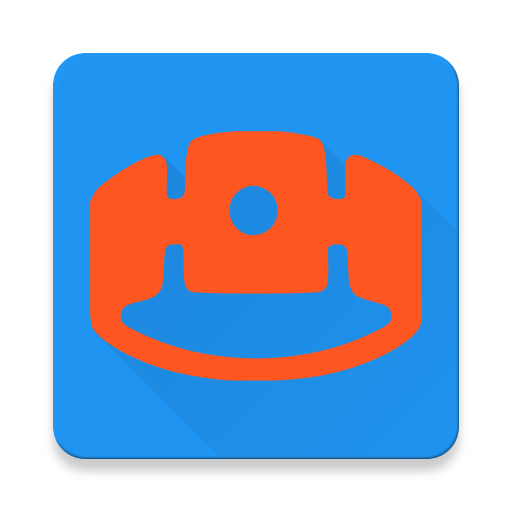
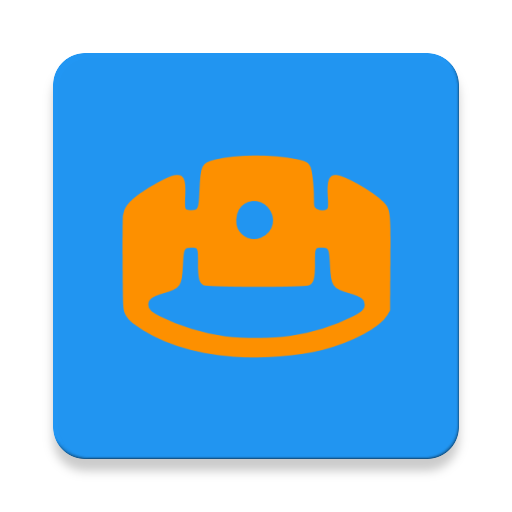
Added README

Changed region(s): [[0.1562, 0.25, 0.8438, 0.75]]

diff --git a/README.md b/README.md
@@ -1,2 +1,275 @@
-# myo-emg-visualizer
-A simple Android app to display emg raw data from Myo device
+# Myonnaise 🍯
+[![CircleCI](https://circleci.com/gh/cortinico/myonnaise.svg?style=svg)](https://circleci.com/gh/cortinico/myonnaise) [![codecov](https://codecov.io/gh/cortinico/myonnaise/branch/master/graph/badge.svg)](https://codecov.io/gh/cortinico/myonnaise) [ ![Download](https://api.bintray.com/packages/cortinico/maven/myonnaise/images/download.svg) ](https://bintray.com/cortinico/maven/myonnaise/_latestVersion) ![License](https://img.shields.io/badge/license-MIT%20License-brightgreen.svg) [![Twitter](https://img.shields.io/badge/Twitter-@cortinico-blue.svg?style=flat)](http://twitter.com/cortinico)
+
+<p align="center">
+    <img width="30%" src="https://raw.githubusercontent.com/cortinico/myonnaise/master/icon_hires.png" alt="projectlogo">
+</p>
+
+An Android library to interact with your Thalmic **Myo**, written in [**Kotlin**](https://github.com/JetBrains/kotlin) and using [**RxJava2**](https://github.com/ReactiveX/RxJava). 
+
+This repo contains also a **sample app** that showcases the usage of the library: Myo EMG Visualizer. With this app you can stream EMG Raw data from your device and **save it as a CSV**. The app is also available on the play store:
+
+<a href='https://play.google.com/store/apps/details?id=it.ncorti.emgvisualizer&pcampaignid=MKT-Other-global-all-co-prtnr-py-PartBadge-Mar2515-1'><img alt='Get it on Google Play' width="20%" src='https://play.google.com/intl/en_gb/badges/images/generic/en_badge_web_generic.png'/></a>
+
+**DISCLAIMER: If you don't know what a Myo is, please go here: [www.myo.com](https://www.myo.com/). Please note that you need a Myo in order to use this library/app.**
+
+* [Getting Started](#getting-started)
+* [Example](#example)
+    * [Searching for a Myo](#searching-for-a-myo)
+    * [Connecting to a Myo](#connecting-to-a-myo)
+    * [Sending a Command](#sending-a-command)
+    * [Starting the Streaming](#starting-the-streaming)
+    * [Streaming Frequency](#streaming-frequency)
+    * [Keep Alive](#keep-alive)
+* [Features](#features)
+* [Test App](#test-app)
+    * [Videos](#videos) 
+* [Building/Testing](#buildingtesting)
+    * [CircleCI](#circleci)
+    * [Codecov](#codecov)
+    * [Building locally](#building-locally)
+    * [Testing](#testing)
+* [Contributing](#contributing)
+* [License](#license)
+
+## Getting Started 👣
+
+**Myonnaise** is distributed through [JCenter](https://bintray.com/bintray/jcenter?filterByPkgName=myonnaise). To use it you need to add the following **Gradle dependency** to your **android app gradle file** (NOT the root file).
+
+```groovy
+dependencies {
+   implementation 'com.ncorti:myonnaise:1.0.0'
+}
+```
+
+## Example 🚸
+
+After setting up the Gradle dependency, you will be able to access two main classes: `Myonnaise` and `Myo`. 
+
+* [`Myonnaise`](https://github.com/cortinico/myonnaise/blob/master/myonnaise/src/main/java/com/ncorti/myonnaise/Myonnaise.kt) is the entry point where you can **trigger a bluetooth scan** to search for nearby devices. A scan will return you one or mode `BluetoothDevice` (from the [android framework](https://developer.android.com/reference/android/bluetooth/BluetoothDevice)). If you don't know your Myo's address a priori, you need to show those devices to the user and allow him to pick one.
+
+* [`Myo`](https://github.com/cortinico/myonnaise/blob/master/myonnaise/src/main/java/com/ncorti/myonnaise/Myo.kt) is the class that will allow you to connect to your device, send commands and start the streaming. You need a `BluetoothDevice` in order to create a `Myo`.
+
+### Searching for a Myo
+
+First, you need to **find a Myo** with a bluetooth scan.
+
+** ⚠ Please note that you need to request the user the ACCESS_COARSE_LOCATION permission. If not, the scan will be empty ⚠ **
+
+To start a bluetooth scan, you can use the `startScan()` method:
+
+```kotlin
+Myonnaise(context).startScan()
+            .subscribeOn(Schedulers.io())
+            .observeOn(AndroidSchedulers.mainThread())
+            .subscribe({
+                // Do something with the found device
+                println(it.address)
+            })
+```
+
+This method will return a `Flowable` that will publish all the `BluetoothDevice` that are discovered nearby. Please note that the scan will stop only when you **cancel** the Flowable.
+
+Alternatively, you can also provide a **timeout** and the scan will stop after the timeout:
+
+```kotlin
+Myonnaise(context).startScan(5, TimeUnit.MINUTES)
+            .subscribeOn(Schedulers.io())
+            .observeOn(AndroidSchedulers.mainThread())
+            .subscribe({
+                // Do something with the found device
+                println(it.address)
+            })
+```
+
+Once you found a `BluetoothDevice` that is a Myo, you can get a `Myo` instance from it.
+
+```kotlin
+val myMyo = Myonnaise.getMyo(foundDevice)
+```
+
+### Connecting to a Myo
+
+Connecting or disconnecting to a Myo is really easy:
+
+```kotlin
+// To Connect
+myMyo.connect(getContext())
+
+// To Disconnect
+myMyo.disconnect()
+```
+Connecting and disconnecting are **not syncronous** operations. You have to wait that the device is successfully connected before start sending commands.
+You can **get notified** of status updates using the RxJava `statusObservable`.
+
+```kotlin
+myMyo.statusObservable()
+        .subscribeOn(Schedulers.io())
+        .observeOn(AndroidSchedulers.mainThread())
+        .subscribe {
+            when (it) {
+                MyoStatus.CONNECTED -> { ... }
+                MyoStatus.CONNECTING -> { ... }
+                MyoStatus.READY -> { ... }
+                else -> { ... } // DISCONNECTED
+            }
+        }
+```
+
+In order to send command to your `Myo`, your `Myo` should be in the **READY** state. If the `Myo` is not ready, commands will be ignored.
+
+### Sending a Command
+
+To send a command you can use the `sendCommand()` method. For example, you can let your device vibrate with:
+
+```kotlin
+myMyo.sendCommand(CommandList.vibration1())
+```
+
+Commands will be processed by the library and sent to the device (the library has a queue to process all the commands).
+
+List of all available commands is in the [`CommandList.kt`](https://github.com/cortinico/myonnaise/blob/master/myonnaise/src/main/java/com/ncorti/myonnaise/Myo.kt) file.
+
+### Starting the Streaming
+
+You can start/stop the streaming using again the `sendCommand` method:
+
+```kotlin
+// Start Streaming
+myMyo.sendCommand(CommandList.emgUnfilteredOnly())
+
+// Stop Streaming
+myMyo.sendCommand(CommandList.stopStreaming())
+```
+
+You will start receiving the streaming of data as a `Flowable<FloatArray>` through the `dataFlowable()` method. To collect the data, just subscribe to the flowable:
+
+```kotlin
+myMyo.dataFlowable()
+        .subscribeOn(Schedulers.io())
+        .observeOn(AndroidSchedulers.mainThread())
+        .subscribe {
+            println(it) // it is an array of 8 floats.
+        }
+```
+
+### Streaming Frequency
+
+You can change the **streaming frequency** to receive less data. By default data is streamed at **200Hz** (the max supported by the device). You can subsample the data if you set the **frequency** property:
+
+```kotlin
+myMyo.frequency = 50 // Streaming at 50Hz
+```
+
+Allowed values are from 0 (reset to default) to 200.
+
+### Keep Alive
+
+The Myo will go to _sleep_ if he receives no intereaction within some seconds. For this reason we are sending a `CommandList.unSleep()` every 10 seconds, in order to keep the connection always on.
+
+If you don't want this behavior, just turn off the keep alive:
+
+```kotlin
+myMyo.keepAlive = false
+```
+
+## Features 🎨
+
+* **100% Kotlin** (but you don't need Kotlin to use it)!
+* Uses **RxJava**. You don't need to poll for status update, the library will call you.
+* Unleash the full Myo power, Raw Data Streaming at **200Hz**! 💪
+* Small footprint: The AAR is just **36Kb**
+* **API >= 21** compatible (due to BluetoothLE limitations).
+* Easy to integrate (just a gradle `implementation` line).
+
+## Test App 📲
+
+You can find the test app (Myo Emg Visualizer) inside the `app` module. 
+
+<p align="center">
+    <img src="https://i.imgur.com/lcAbyJD.png" width="30%">
+</p>
+
+This app allows you to:
+
+* Scan for a Myo
+* Connect to a Myo, control the frequency and send vibration.
+* See a graph of the **EMG data**.
+* Export the EMG data as a **CSV file**
+
+Some technical features are:
+
+* The app is 100% Kotlin.
+* Architecture pattern used: MVP.
+* Dagger Android to inject the views.
+* Use AndroidX.
+* Use the Material Design Components library.
+
+### Videos
+
+**Searching for a Myo**
+
+<img src="https://i.imgur.com/ShZP4w5.gif" width="30%"/>
+
+**Starting the Streaming**
+
+<img src="https://i.imgur.com/iqvkQfr.gif" width="30%"/>
+
+**Exporting to CSV**
+
+<img src="https://i.imgur.com/4UXIas9.gif" width="30%"/>
+
+
+## Building/Testing ⚙
+
+### CircleCI [![CircleCI](https://circleci.com/gh/cortinico/myonnaise.svg?style=svg)](https://circleci.com/gh/cortinico/myonnaise) 
+
+This projects is built with [**Circle CI 2.0**](https://circleci.com/gh/cortinico/myonnaise/). The CI environment takes care of building the library .AAR, the example app and to run the **JUnit** tests. Test and lint reports are exposes in the **artifacts** section at the end of every build.
+
+### Codecov [![codecov](https://codecov.io/gh/cortinico/myonnaise/branch/master/graph/badge.svg)](https://codecov.io/gh/cortinico/myonnaise)
+
+Circle CI is responsible of uploading Jacoco reports to [Codecov](https://codecov.io/gh/cortinico/myonnaise). When opening a Pull Request, Codecov will post a report of the diff of the test coverage.
+
+Please **don't ignore it**! PR with new features and **without** are likely to be discarded 😕
+
+### Building locally
+
+Before building, make sure you have the following **updated components** from the Android SDK:
+
+* tools
+* platform-tools
+* build-tools-28.0.1
+* android-28
+
+Then just clone the repo locally and build the .AAR with the following command:
+
+```bash
+git clone git@github.com:cortinico/myonnaise.git
+cd myonnaise/
+./gradlew app:assemble
+```
+The assembled .AAR (library) will be inside the **myonnaise/build/outputs/aar** folder.
+The assembled .APK (application) will be inside the **app/build/outputs/apk/debug** folder.
+
+### Testing
+
+Once you're able to build successfully, you can run JUnit tests locally with the following command.
+
+```bash
+./gradlew test 
+```
+Please note that there are tests inside the `myonnaise` and the `app` module. The `app` module contains test for the presenters. The `myonnaise` module contains tests for the library.
+
+Make sure your tests are all green ✅ locally before submitting PRs.
+
+## Contributing 🤝
+
+**Looking for contributors! Don't be shy.** 😁 Feel free to open issues/pull requests to help me improve this project.
+
+* When reporting a new Issue, make sure to attach **Screenshots** of the problem you are reporting. 
+* Debugging 
+* When submitting a new PR, make sure tests are all green. Write new tests if necessary (would be great if the code coverage doesn't decrease).
+
+## License 📄
+
+This project is licensed under the MIT License - see the [License](License) file for details
